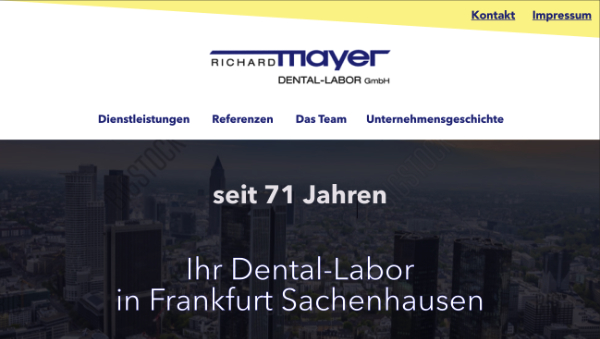
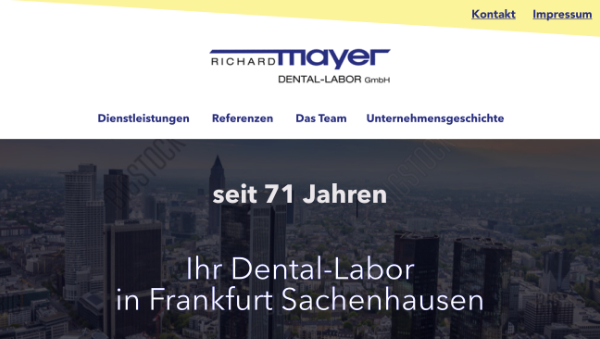
fix previous mistakes

diff --git a/_includes/impressum.html b/_includes/impressum.html
@@ -1,6 +1,3 @@
-
-
-
 <section>
 
   <h3 id="impressum">Impressum</h3>
@@ -12,11 +9,9 @@
       marta@maki-webentwicklung.de<br />
       +49 152 310 969 06<br />
       </p>
-
-      <button class="disclaimerBtn"><p><strong>Disclaimer & Datenschutzerklärung</strong></p>
+      <button>
+      <p><strong>Disclaimer & Datenschutzerklärung</strong></a>
       <div id="flip"><img src="assets/img/arrow-down.svg" class="arrow"></div></button>
-
-
       <div id="panel">
 <h3>HAFTUNG FÜR INHALTE</h3>
 <p>Als Diensteanbieter sind wir gemäß § 7 Abs.1 TMG für eigene Inhalte auf diesen Seiten nach den allgemeinen Gesetzen verantwortlich. Nach §§ 8 bis 10 TMG sind wir als Diensteanbieter jedoch nicht verpflichtet, übermittelte oder gespeicherte fremde Informationen zu überwachen oder nach Umständen zu forschen, die auf eine rechtswidrige Tätigkeit hinweisen. Verpflichtungen zur Entfernung oder Sperrung der Nutzung von Informationen nach den allgemeinen Gesetzen bleiben hiervon unberührt. Eine diesbezügliche Haftung ist jedoch erst ab dem Zeitpunkt der Kenntnis einer konkreten Rechtsverletzung möglich. Bei Bekanntwerden von entsprechenden Rechtsverletzungen werden wir diese Inhalte umgehend entfernen.</p>
@@ -49,9 +44,11 @@
 
 <p>Sie können die Speicherung der Cookies durch eine entsprechende Einstellung Ihrer Browser-Software verhindern; wir weisen Sie jedoch darauf hin, dass Sie in diesem Fall gegebenenfalls nicht sämtliche Funktionen dieser Website vollumfänglich werden nutzen können. Sie können darüber hinaus die Erfassung der durch das Cookie erzeugten und auf Ihre Nutzung der Website bezogenen Daten (inkl. Ihrer IP-Adresse) an Google sowie die Verarbeitung dieser Daten durch Google verhindern, indem sie das unter dem folgenden Link verfügbare Browser-Plugin herunterladen und installieren: http://tools.google.com/dlpage/gaoptout?hl=de.</p>
 
+<div id="flip1"><img src="assets/img/arrow-up.svg" class="arrow"></div>
 
 
   </div>
+</div>
 
 
 </section>

diff --git a/_includes/header.html b/_includes/header.html
@@ -20,7 +20,7 @@
 
             <div class="buttons-header">
               <a href="#dienstleistungen" class="button-first">Dienstleistungen</a>
-              <a href="#preise" class="button-second">Pakete & Preise</a>
+              <!--<a href="#preise" class="button-second">Pakete & Preise</a>-->
             </div>
       </div>
 

diff --git a/assets/js/functions.js b/assets/js/functions.js
@@ -480,6 +480,12 @@ jQuery(document).ready(function($){
 
 $(document).ready(function(){
     $("button").click(function(){
-        $("#panel").fadeIn(3000);
+        $("#panel").slideDown("1000");
+    });
+});
+
+$(document).ready(function(){
+    $("#flip1").click(function(){
+        $("#panel").hide("1000");
     });
 });

diff --git a/_includes/dienstleistungen.html b/_includes/dienstleistungen.html
@@ -3,7 +3,7 @@
 
   <figure class="dienst-wrap-item">
     <div class="diesnt-wrap-img"><img src="/assets/img/maki-dienstleistung-website.jpg">
-      <h4>Web Design & Entwicklung</h4>
+      <h4>Web Design & Betreuung</h4>
     </div>
     <div class="diesnt-wrap-text">
           <p>Unternehmen Websiten<br />

diff --git a/assets/css/3-sections/_header.sass b/assets/css/3-sections/_header.sass
@@ -355,8 +355,14 @@ header
   .bird-box
     h1
       font-size: 22px
-      padding-top: 10%
+      padding-top: 30px
       line-height: 20px
+  .logo
+    display: none
+
+  header
+    .header-text
+      top: 55%
 
     .kicker
       color: white

diff --git a/assets/css/3-sections/_impressum.sass b/assets/css/3-sections/_impressum.sass
@@ -17,6 +17,6 @@
   height: 30px
   cursor: pointer
 
-.disclaimerBtn
-  background-color: white
+button
   border: none
+  background-color: white

diff --git a/_includes/work/proj-5.html b/_includes/work/proj-5.html
@@ -1,0 +1,1 @@
+<img src="assets/img/work/proj-5/dentallabor-v3.jpg" alt="Dental-Labor Richard Mayer" />
